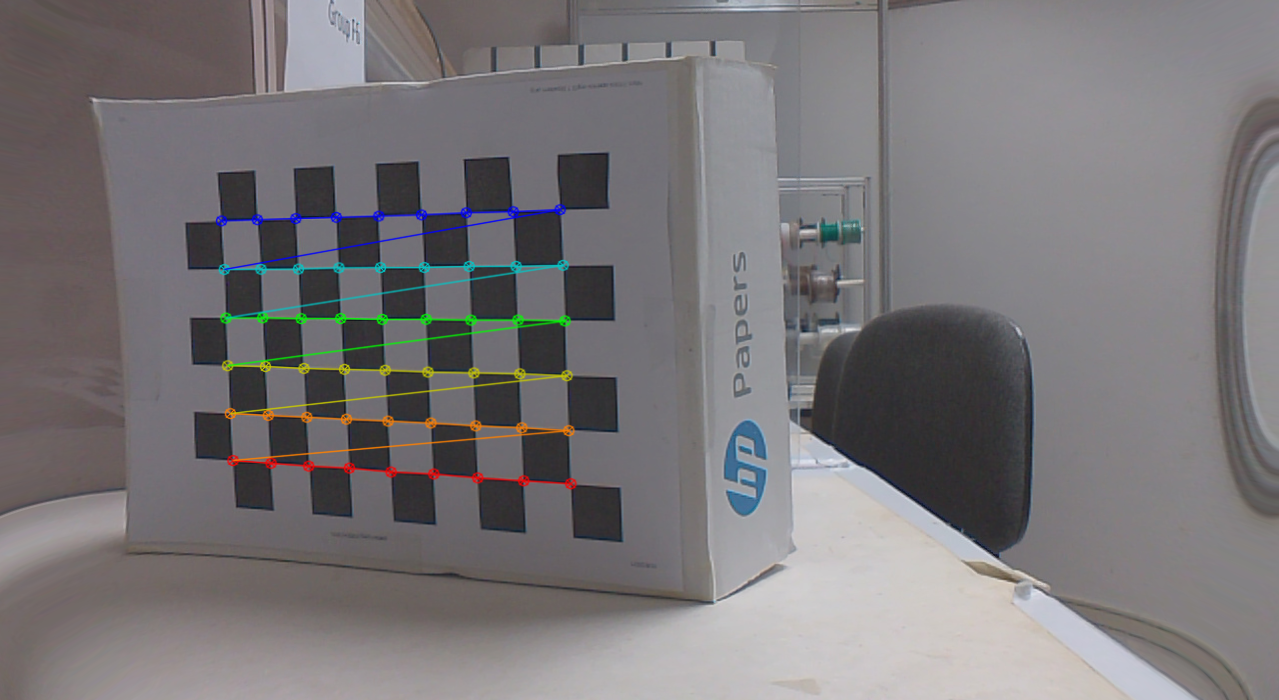
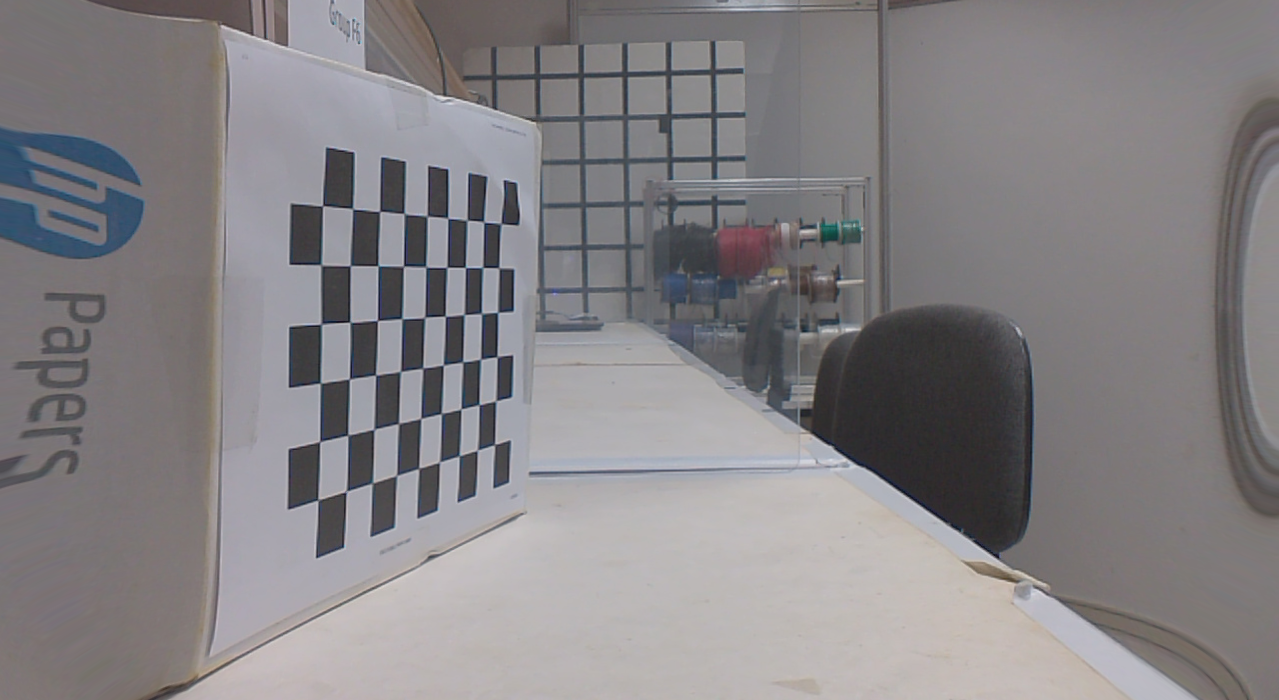
feat: update

diff --git a/train.py b/train.py
@@ -35,7 +35,7 @@ ret, mtx, dist, rvecs, tvecs = cv.calibrateCamera(objpoints, imgpoints, gray.sha
 
 print("ret, mtx, dist, rvecs, tvecs: ",ret, mtx, dist, rvecs, tvecs)
 
-img - cv.imread("20211111-130716.jpg")
+img = cv.imread("20211111-130618.jpg")
 h, w = img.shape[:2]
 newcameramtx, roi = cv.getOptimalNewCameraMatrix(mtx, dist, (w,h), 1, (w,h))
 # undistort
